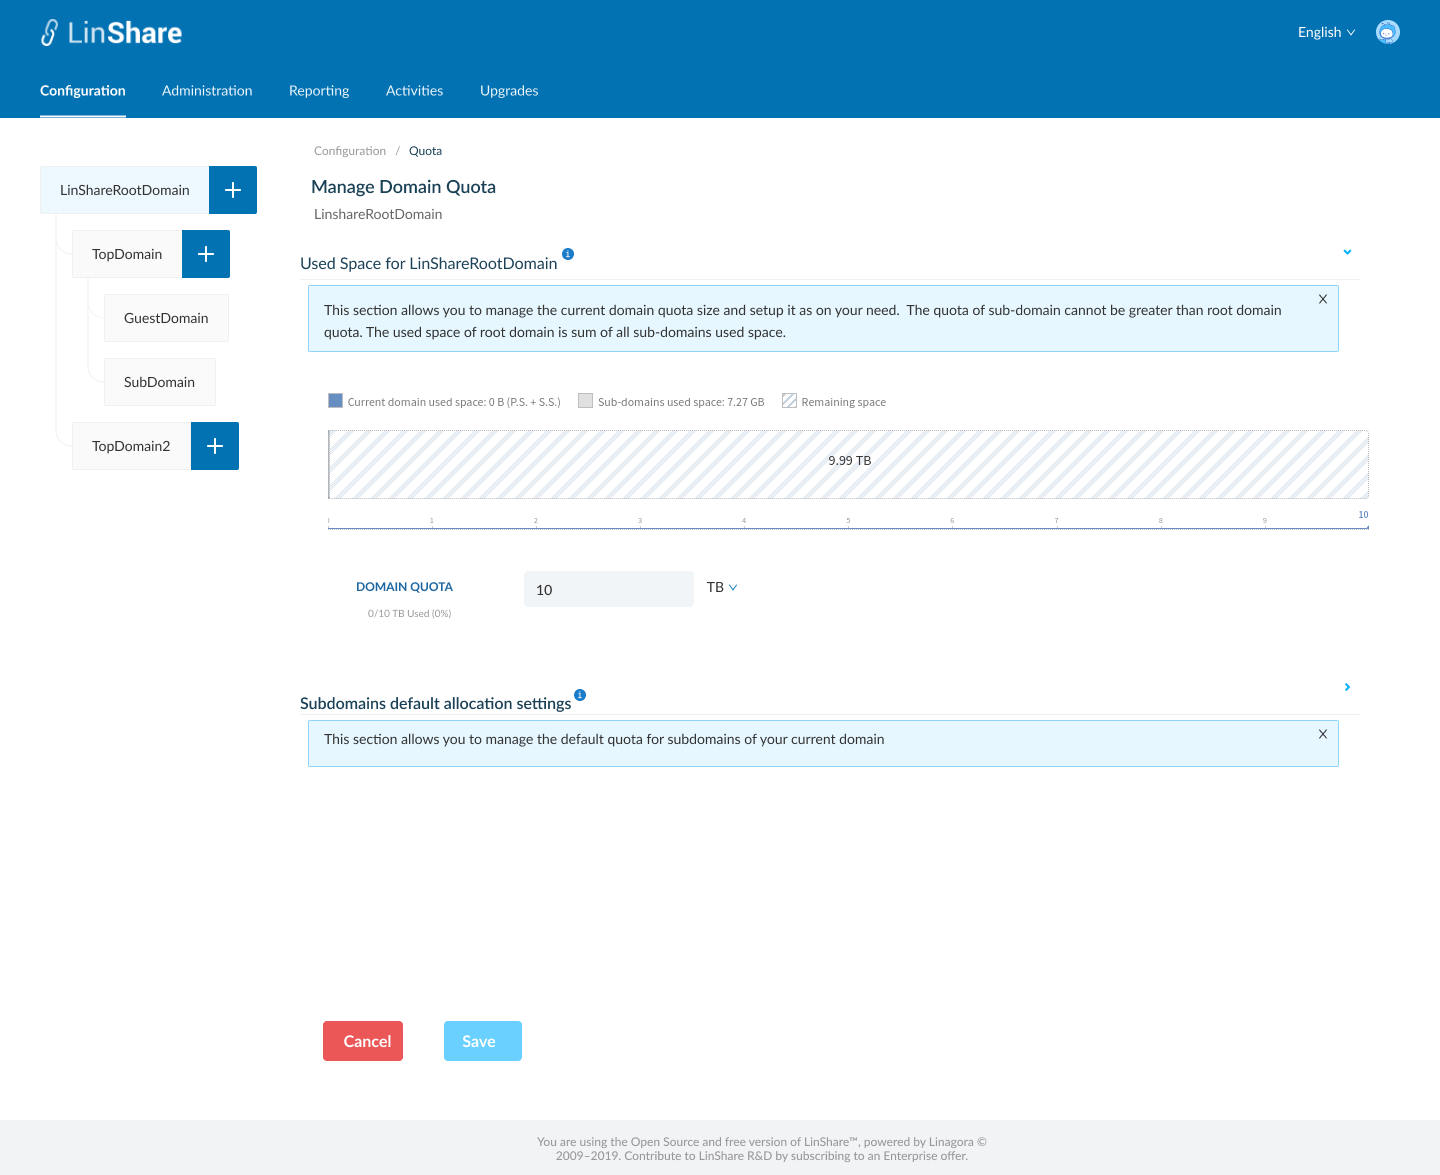
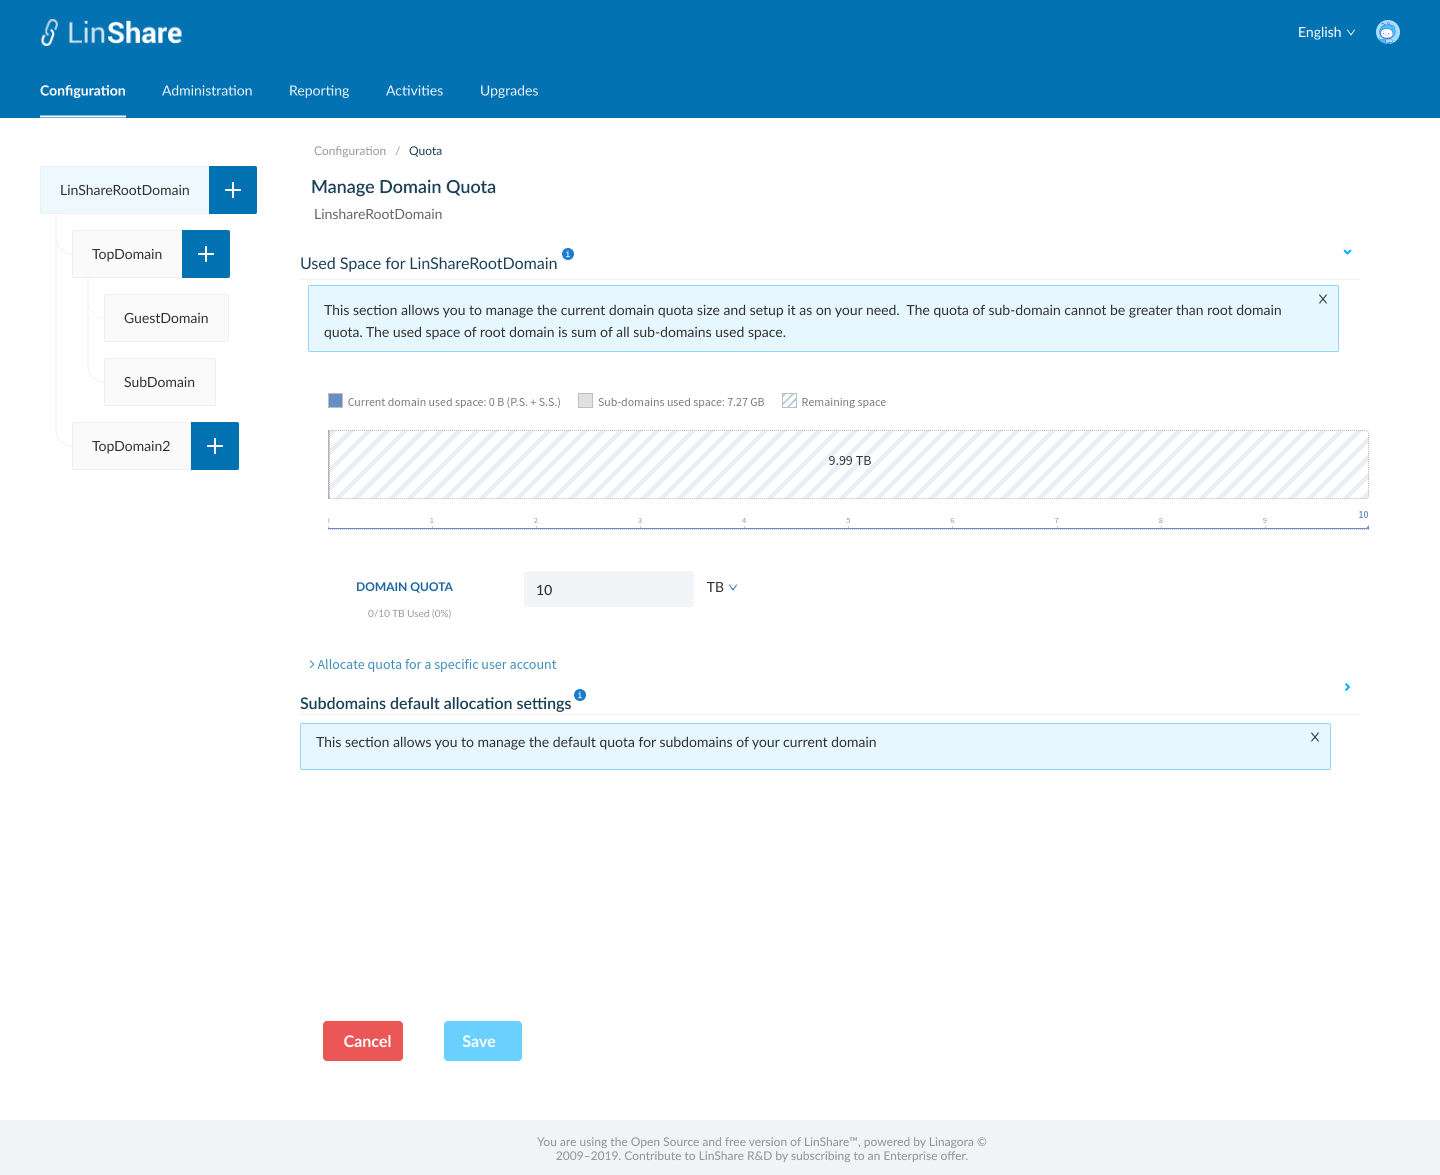
Add story 511 admin manage subdomain quota

Changed region(s): [[0.1875, 0.6128, 0.9375, 0.674], [0.2188, 0.5515, 0.3438, 0.5821]]

diff --git a/documentation/EN/epics/new-admin-portal/story-511-admin-can-manage-domain-quota-for-subdomain-or-guest-domain.md b/documentation/EN/epics/new-admin-portal/story-511-admin-can-manage-domain-quota-for-subdomain-or-guest-domain.md
@@ -1,0 +1,62 @@
+# Summary
+
+* [Related EPIC](#related-epic)
+* [Definition](#definition)
+* [UI Design](#ui-design)
+* [Misc](#misc)
+
+## Related EPIC
+
+* [New admin portal](./README.md)
+
+## Definition
+
+#### Preconditions
+
+- Given that I am Root admin of LinShare
+- I logged in to LinShare new admin portal
+- I select Sub domain or Guest domain in Domain tree and go to Configuration tab on top navigation bar.
+- I click on Quota, the screen setting domain quota for sub-domain/Guest domain will be opened.
+
+#### Description
+
+- On Screen Manage domain quota for sub-domain, I can see 2 links to 2 seperate screens: 
+
+1.Domain quota and used space
+
+- When I click on icon "i", there will be a collapsible legend: "This section allows you to manage the current domain quota size and setup it as on your need.  The quota of sub-domain cannot be greater than top domain quota.".
+- Domain quota [DQ-SUB]: The default value will be inherited from default allocation setting of root domain. I can click on icon break to edit the default setting.
+- I can see the text that displays max domain quota [DQ-TOP] 
+- Chart: This chart presents 3 values: Current domain used space Remaining space and unallocated space
+- Maintenance mode: When this is activated, user cannot upload file to this Domain, both in Myspace and Shared Space.
+
+2. Allocation within the current domain (Containers)
+- The setting rules are as same as Top domain settings 
+
+#### Postconditions
+
+- When I click button Save, If there is no error, there will be a successful notification
+- The updated information will be saved
+- After I override default setting, I can click icon break next to that setting to reset it to default setting.
+- When I click button Reset, all default settings from parent domain will be applied for current domain.
+- The setting for Guest domain is as same as setting for Sub-domain
+- I can click on the link :"Allocate quota for specific user", then I am navigated to User list screen
+- I can find a user then set up quota for that user. Otherwise, the quota of each user will be inherited from its domain setting.
+
+[Back to Summary](#summary)
+
+## UI Design
+
+#### Mockups
+
+![story511](./mockups/511.1.png)
+![story511](./mockups/511.2.png)
+![story511](./mockups/511.3.png)
+![story511](./mockups/511.4.png)
+
+#### Final design
+
+[Back to Summary](#summary)
+## Misc
+
+[Back to Summary](#summary)

diff --git a/documentation/EN/epics/new-admin-portal/story-476-root-admin-can-manage-root-domain-quota.md b/documentation/EN/epics/new-admin-portal/story-476-root-admin-can-manage-root-domain-quota.md
@@ -82,6 +82,8 @@
 - When I click button Save, If there is no error, there will be a successful notification
 - The updated information will be saved and applied for nested domains.
 - If after updating, the settings in root domain conflicts with current setting of nested domain, the error symbol will be shown in domain tree and in every detail setting.
+- I can click on the link :"Allocate quota for specific user", then I am navigated to User list screen
+- I can find a user then set up quota for that user. Otherwise, the quota of each user will be inherited from its domain setting.
 
 [Back to Summary](#summary)
 
